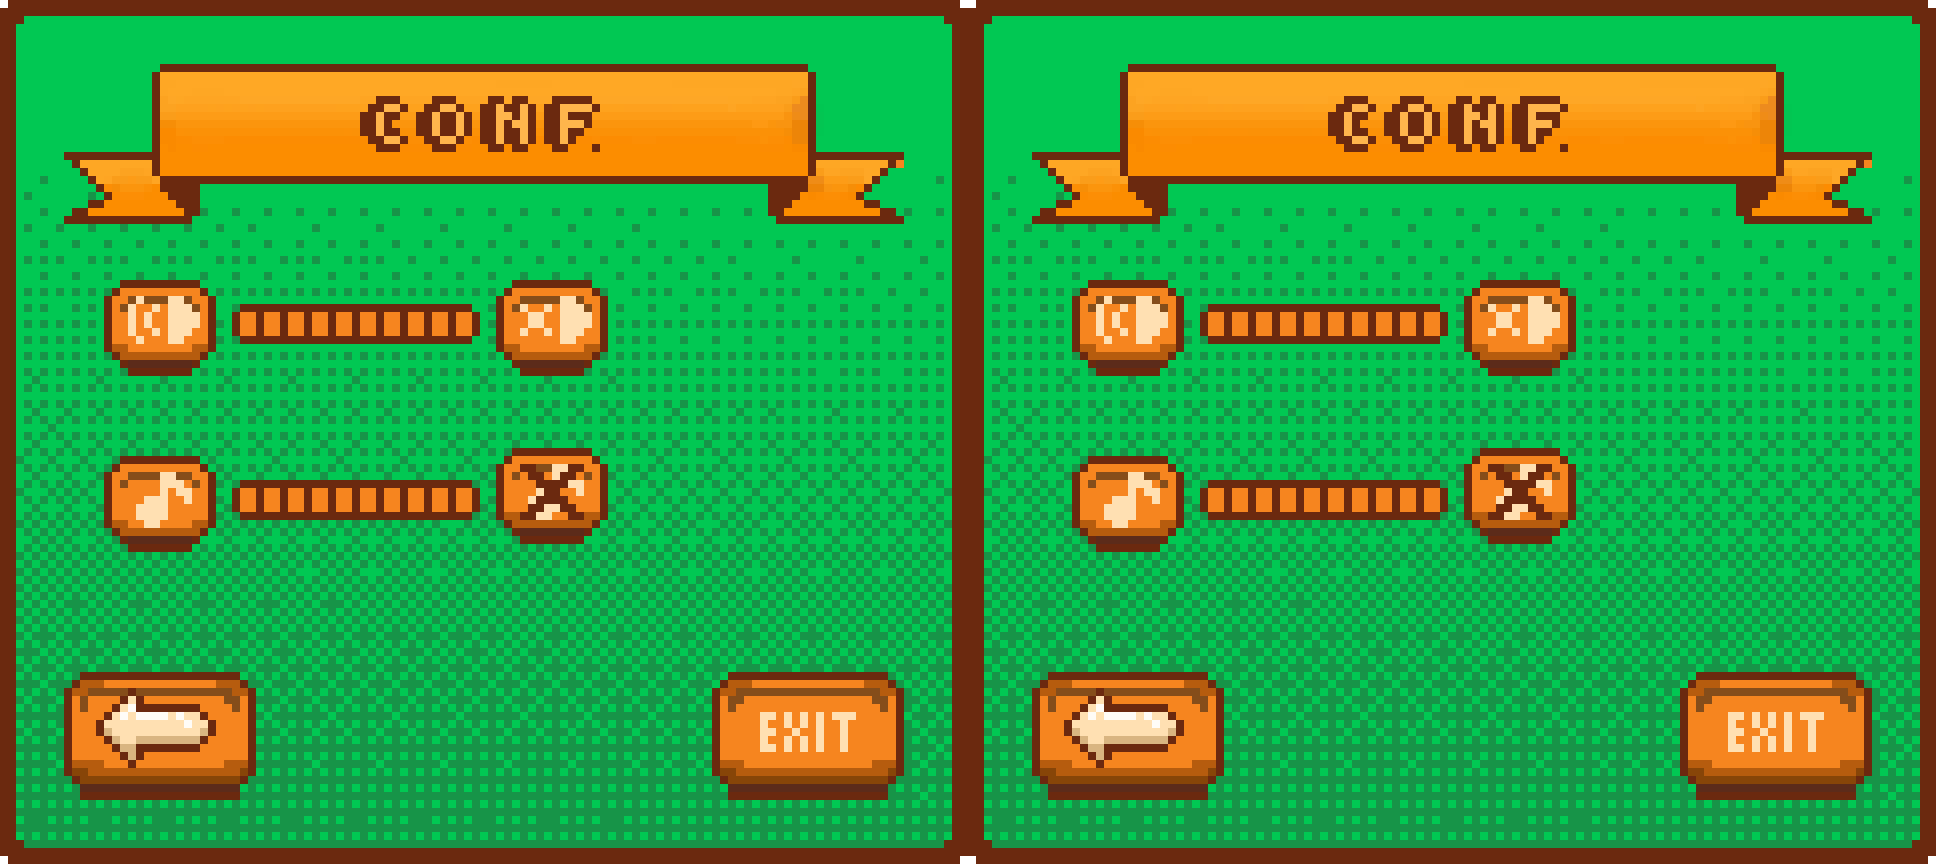
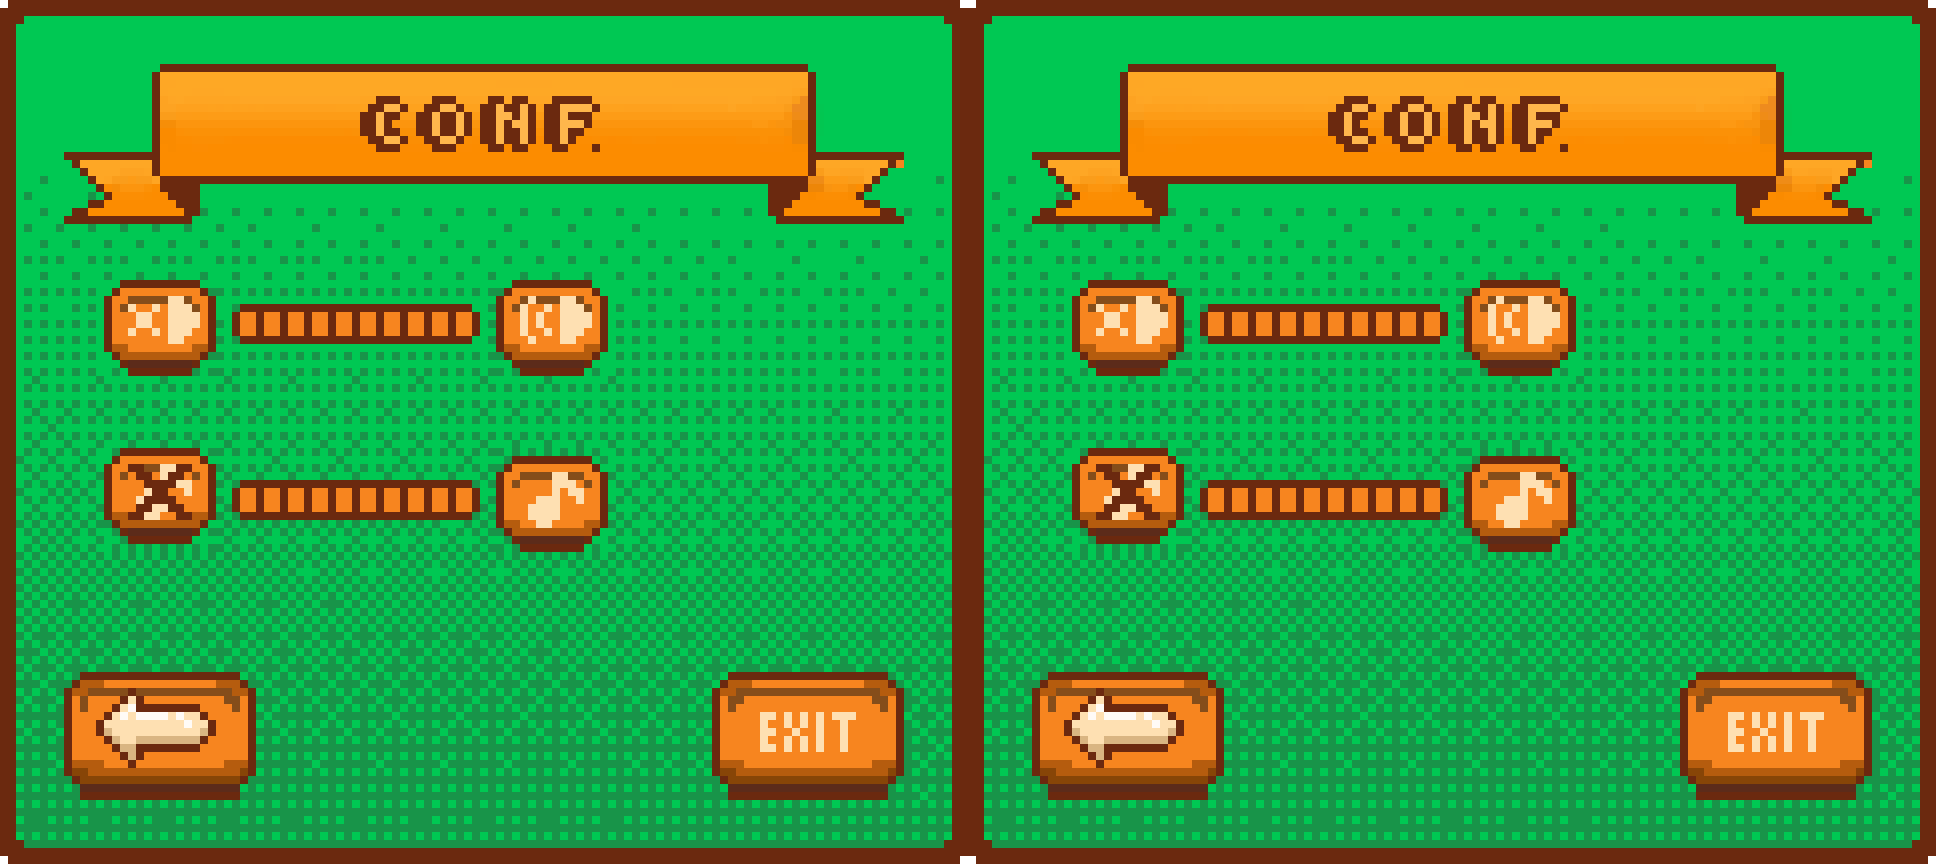
Troca ícones de som na configuração: mudo à esquerda, som à direita

diff --git a/Jogo - Squirrel Fight/game.js b/Jogo - Squirrel Fight/game.js
@@ -440,13 +440,14 @@ const CONFIG_PANEL = { x: 40, y: 58, w: 121, h: 108 };
 
 function configButtons(inGame) {
     const px = CONFIG_PANEL.x, py = CONFIG_PANEL.y;
+    // à esquerda da barra fica o botão de mudo (X); à direita, o de som/música
     const list = [
-        { x: px + 13, y: py + 35, w: 15, h: 12, onClick: () => { settings.sfx = settings.sfx > 0 ? settings.sfx : 1; applyVolumes(); playSfx("nut"); } },
+        { x: px + 13, y: py + 35, w: 15, h: 12, onClick: () => { settings.sfx = 0; applyVolumes(); } },
         { x: px + 29, y: py + 36, w: 32, h: 8, slider: "sfx" },
-        { x: px + 62, y: py + 35, w: 15, h: 12, onClick: () => { settings.sfx = 0; applyVolumes(); } },
-        { x: px + 13, y: py + 56, w: 15, h: 12, onClick: () => { settings.music = settings.music > 0 ? settings.music : 0.6; applyVolumes(); } },
+        { x: px + 62, y: py + 35, w: 15, h: 12, onClick: () => { settings.sfx = settings.sfx > 0 ? settings.sfx : 1; applyVolumes(); playSfx("nut"); } },
+        { x: px + 13, y: py + 56, w: 15, h: 12, onClick: () => { settings.music = 0; applyVolumes(); } },
         { x: px + 29, y: py + 58, w: 32, h: 8, slider: "music" },
-        { x: px + 62, y: py + 56, w: 15, h: 12, onClick: () => { settings.music = 0; applyVolumes(); } },
+        { x: px + 62, y: py + 56, w: 15, h: 12, onClick: () => { settings.music = settings.music > 0 ? settings.music : 0.6; applyVolumes(); } },
         // seta: no menu volta para a tela inicial; no jogo despausa
         { x: px + 8, y: py + 84, w: 25, h: 17, onClick: () => {
             if (inGame) game.paused = false;

diff --git a/Jogo - Squirrel Fight/tools/build_assets.py b/Jogo - Squirrel Fight/tools/build_assets.py
@@ -76,6 +76,18 @@ def union_bbox(frames):
     return box
 
 
+def swap_config_icons(frame):
+    """Na tela de configuração, troca os botões de lugar: mudo (X) à esquerda
+    e som/música à direita, seguindo a barra (esquerda = 0%, direita = 100%)."""
+    frame = frame.copy()
+    for y0, y1 in ((280, 376), (448, 552)):  # linha do som, linha da música
+        left = frame.crop((104, y0, 216, y1))
+        right = frame.crop((496, y0, 608, y1))
+        frame.paste(right, (104, y0))
+        frame.paste(left, (496, y0))
+    return frame
+
+
 def main():
     os.makedirs(OUT, exist_ok=True)
     meta = {}
@@ -86,6 +98,8 @@ def main():
         else:
             box = union_bbox(frames)
         cropped = [f.crop(box) for f in frames]
+        if name in ("configMenu", "configGame"):
+            cropped = [swap_config_icons(f) for f in cropped]
         fw, fh = cropped[0].size
         sheet = Image.new("RGBA", (fw * len(cropped), fh), (0, 0, 0, 0))
         for i, f in enumerate(cropped):
